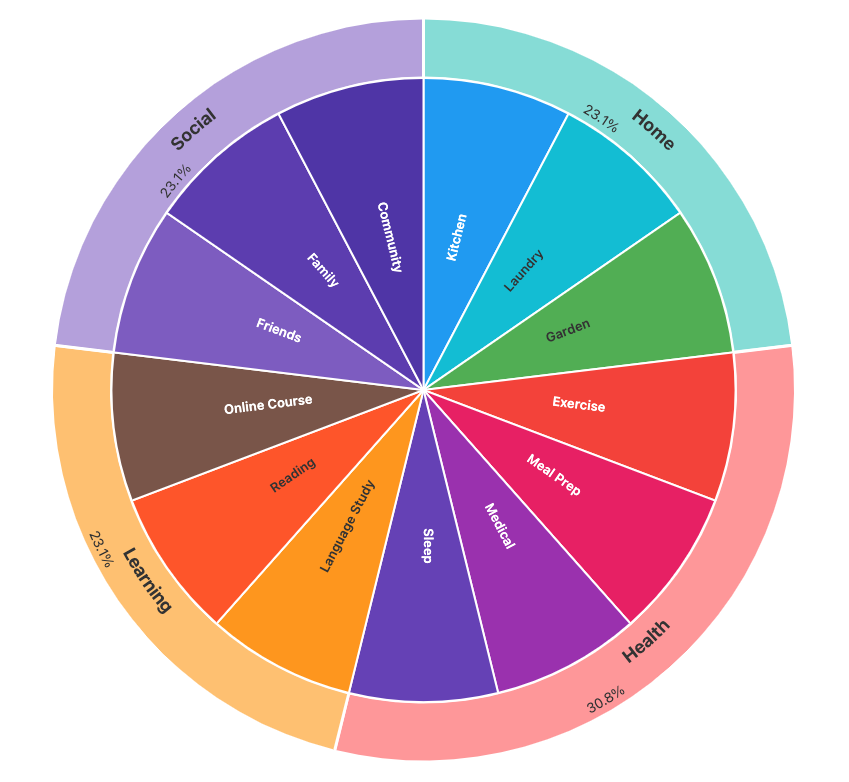
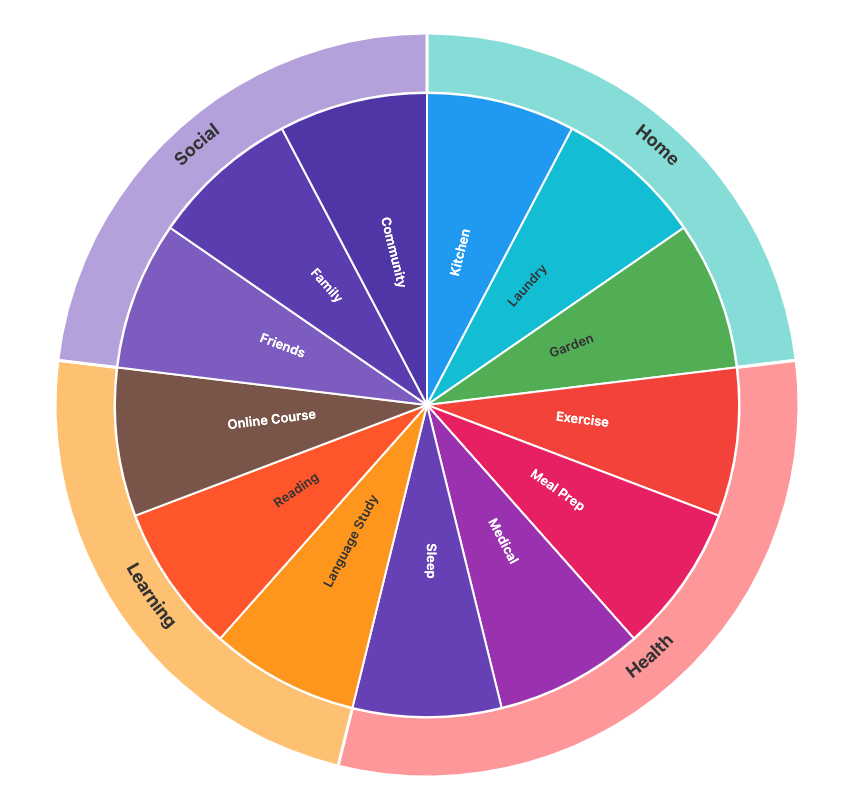
update og image. add label toggle

diff --git a/app.js b/app.js
@@ -1,3 +1,16 @@
+const Controls = {
+  init() {
+    const checkbox = document.getElementById('hide-labels');
+    const container = document.getElementById('chart-container');
+
+    checkbox.addEventListener('change', (e) => {
+      // true  -> add 'hide-subitem-labels'
+      // false -> remove it
+      container.classList.toggle('hide-subitem-labels', e.target.checked);
+    });
+  }
+};
+
 const App = {
     init() {
         DataModel.loadFromStorageOrExample();
@@ -5,6 +18,7 @@ const App = {
         UI.clearInputs();
         UI.clearCategoryInputs();
         this.render();
+        Controls.init();
 
         // Add resize listener
         let resizeTimeout;
@@ -176,7 +190,7 @@ const ExampleData = {
                             "name": "Kitchen",
                             "percentage": 33.33,
                             "color": "#2196F3",
-                            "subItems": ["Clean counters", "Empty dishwasher", "Organize pantry", "Wipe down appliances"]
+                            "subItems": ["Empty dishwasher", "Organize cupboards", "Wipe down surfaces"]
                         },
                         {
                             "id": "2",
@@ -211,7 +225,7 @@ const ExampleData = {
                             "name": "Meal Prep",
                             "percentage": 25,
                             "color": "#E91E63",
-                            "subItems": ["Plan weekly menu", "Grocery shopping", "Prep vegetables", "Cook batch meals"]
+                            "subItems": ["Plan weekly menu", "Food shopping", "Prep vegetables", "Cook batch meals"]
                         },
                         {
                             "id": "6",
@@ -225,7 +239,7 @@ const ExampleData = {
                             "name": "Sleep",
                             "percentage": 25,
                             "color": "#673AB7",
-                            "subItems": ["Set bedtime alarm", "Prepare bedroom", "Wind down routine"]
+                            "subItems": ["Set bedtime alarm", "Wind down routine"]
                         }
                     ]
                 },
@@ -267,21 +281,21 @@ const ExampleData = {
                             "name": "Friends",
                             "percentage": 33.33,
                             "color": "#7E57C2",
-                            "subItems": ["Text Sarah", "Plan coffee with Mike", "Reply to group chat"]
+                            "subItems": ["Text Sarah", "Plan coffee with Mike", "Reply to group chat about Zoo trip"]
                         },
                         {
                             "id": "12",
                             "name": "Family",
                             "percentage": 33.33,
                             "color": "#5E35B1",
-                            "subItems": ["Call Mom", "Video chat with siblings", "Plan weekend visit", "Send photos"]
+                            "subItems": ["Call Mum", "Video chat with Steve", "Plan weekend visit", "Send photos"]
                         },
                         {
                             "id": "13",
                             "name": "Community",
                             "percentage": 33.33,
                             "color": "#512DA8",
-                            "subItems": ["Volunteer event", "Attend neighborhood meeting", "Help with school fundraiser"]
+                            "subItems": ["Volunteer event on 18th", "Help with school fundraiser"]
                         }
                     ]
                 }

diff --git a/index.html b/index.html
@@ -33,6 +33,11 @@
                 <button class="tertiary" onclick="document.getElementById('import-file').click()">📤 Import</button>
                 <input type="file" id="import-file" accept=".json" onchange="App.importData(event)">
             </div>
+            <div>
+                <p>Hide:</p>
+                    <br>
+                    <label>Labels </label><input id="hide-labels" type="checkbox" name="hide-labels">
+                </div>
         </div>
         <div class="storage-status" id="storage-status"></div>
 

diff --git a/styles.css b/styles.css
@@ -20,6 +20,12 @@ body {
     width: 100%;
 }
 
+#chart-container.hide-subitem-labels {
+    .sub-item-label, .sub-item-line {
+        display: none;
+    }
+}
+
 .container {
     max-width: 100%;
     margin: 0 auto;
@@ -293,6 +299,7 @@ textarea {
     font-size: 14px;
     /* fill: #666; */
     pointer-events: none;
+    display: none;
 }
 
 .item-label {
